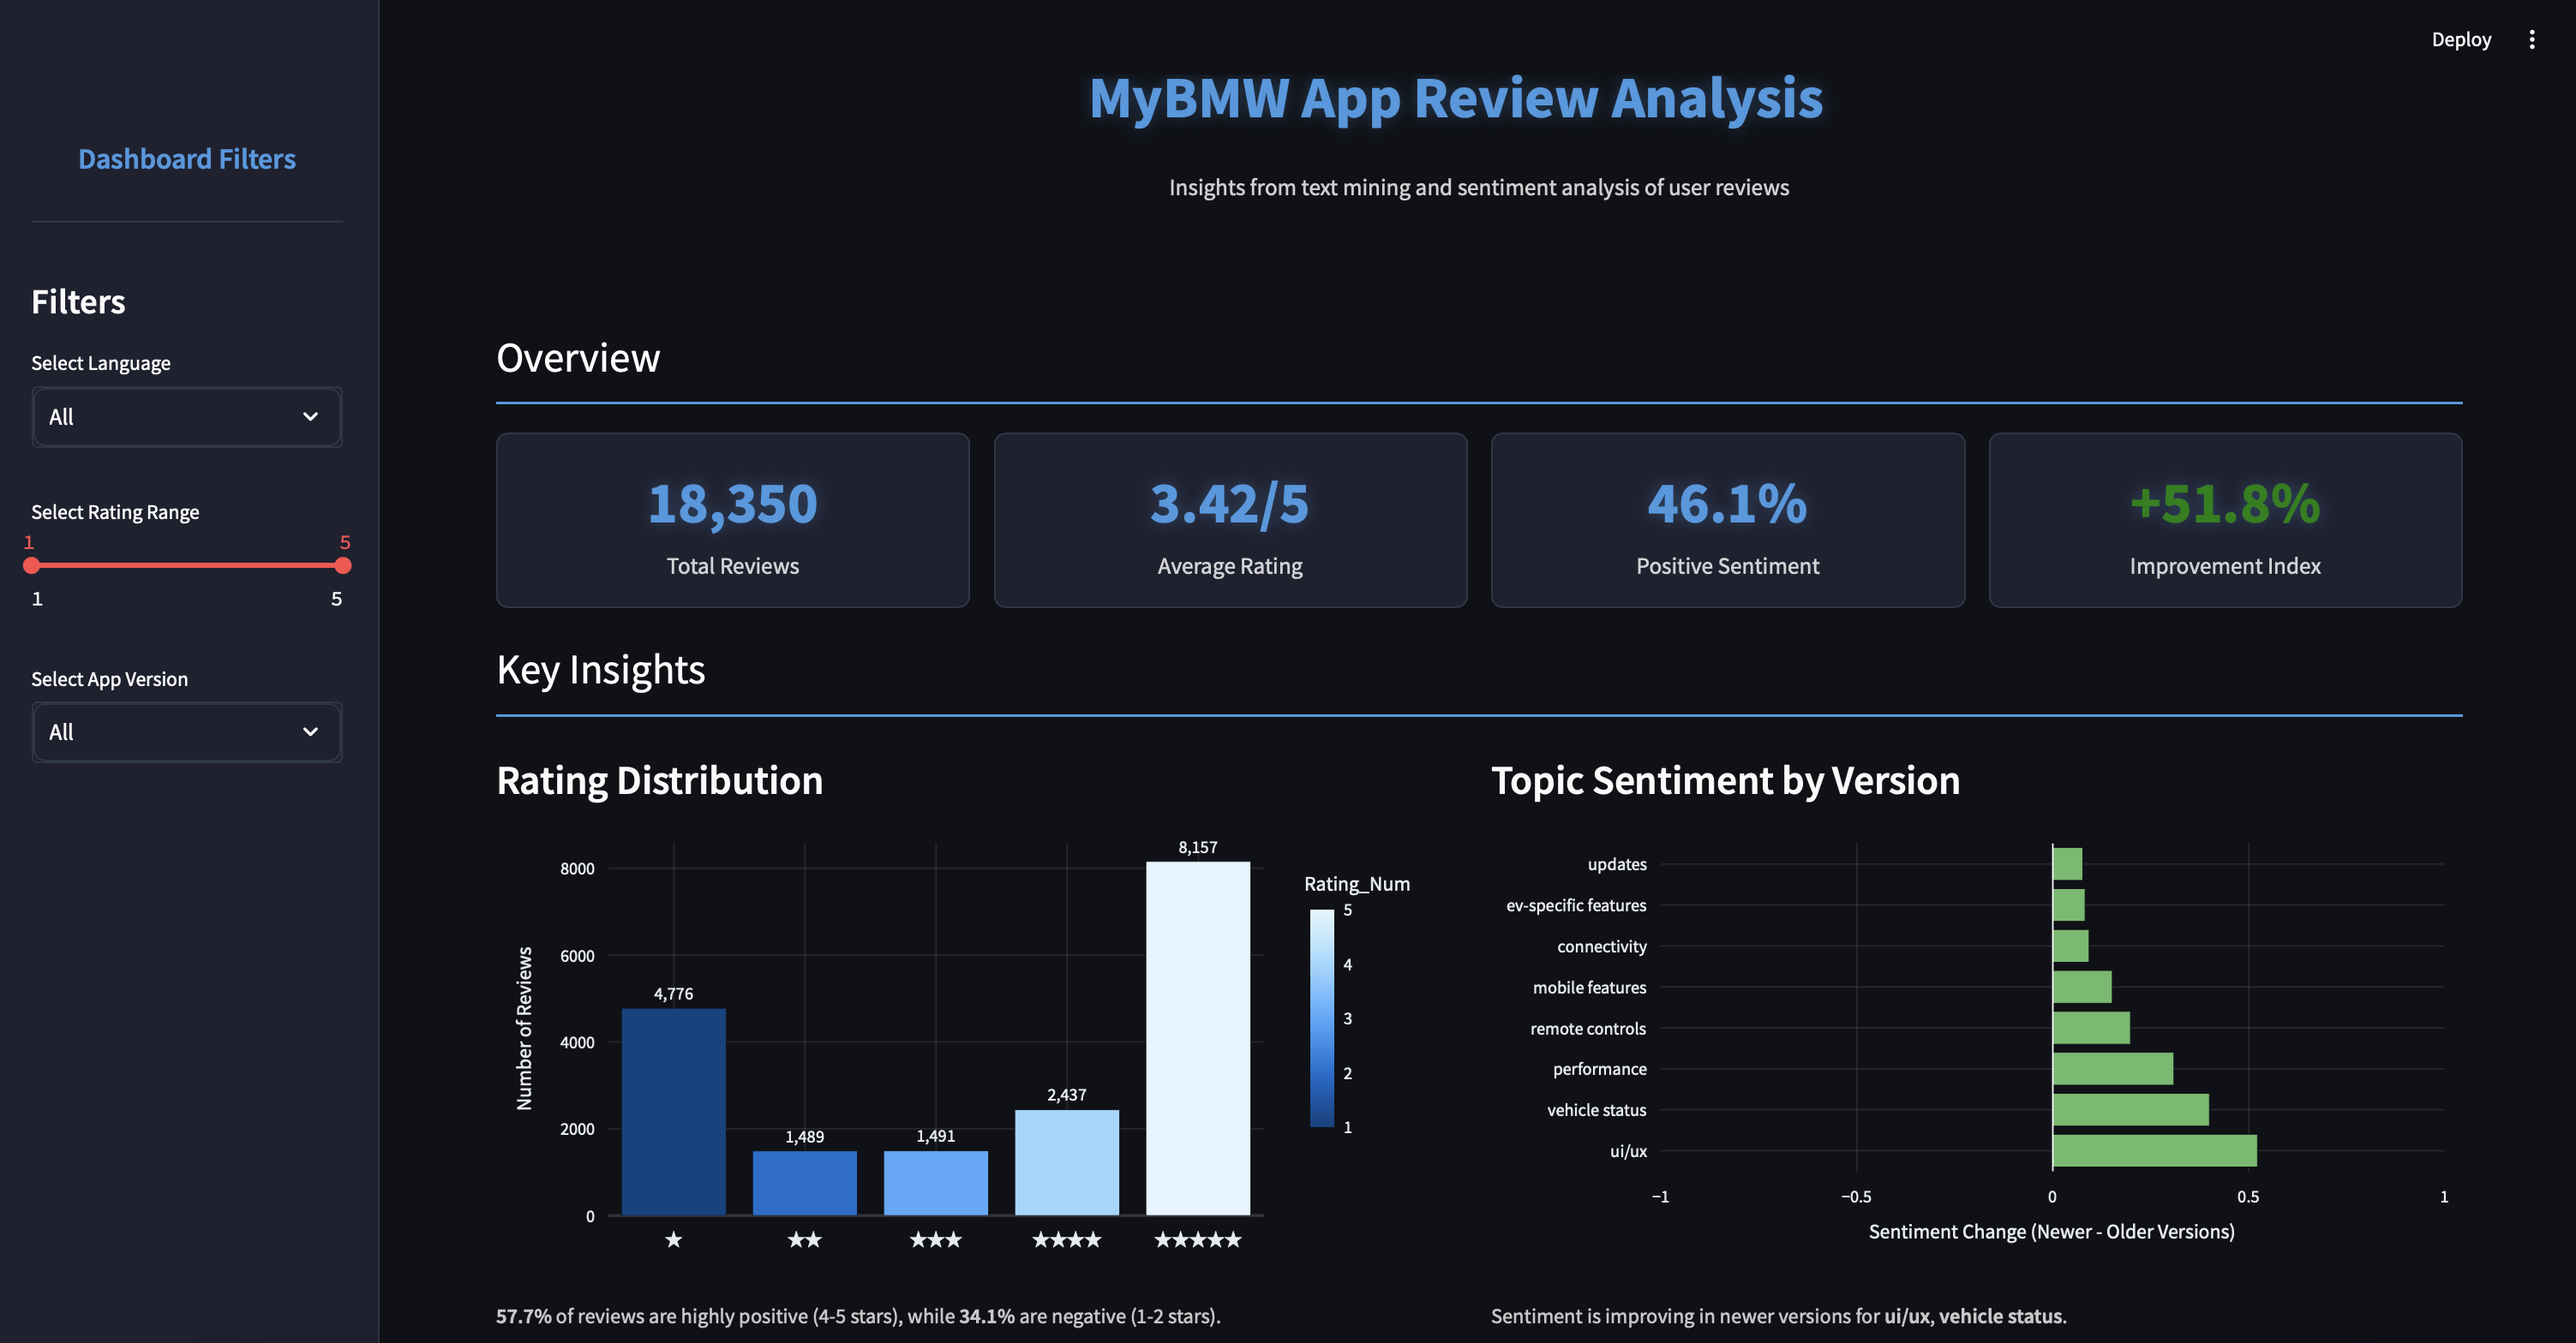
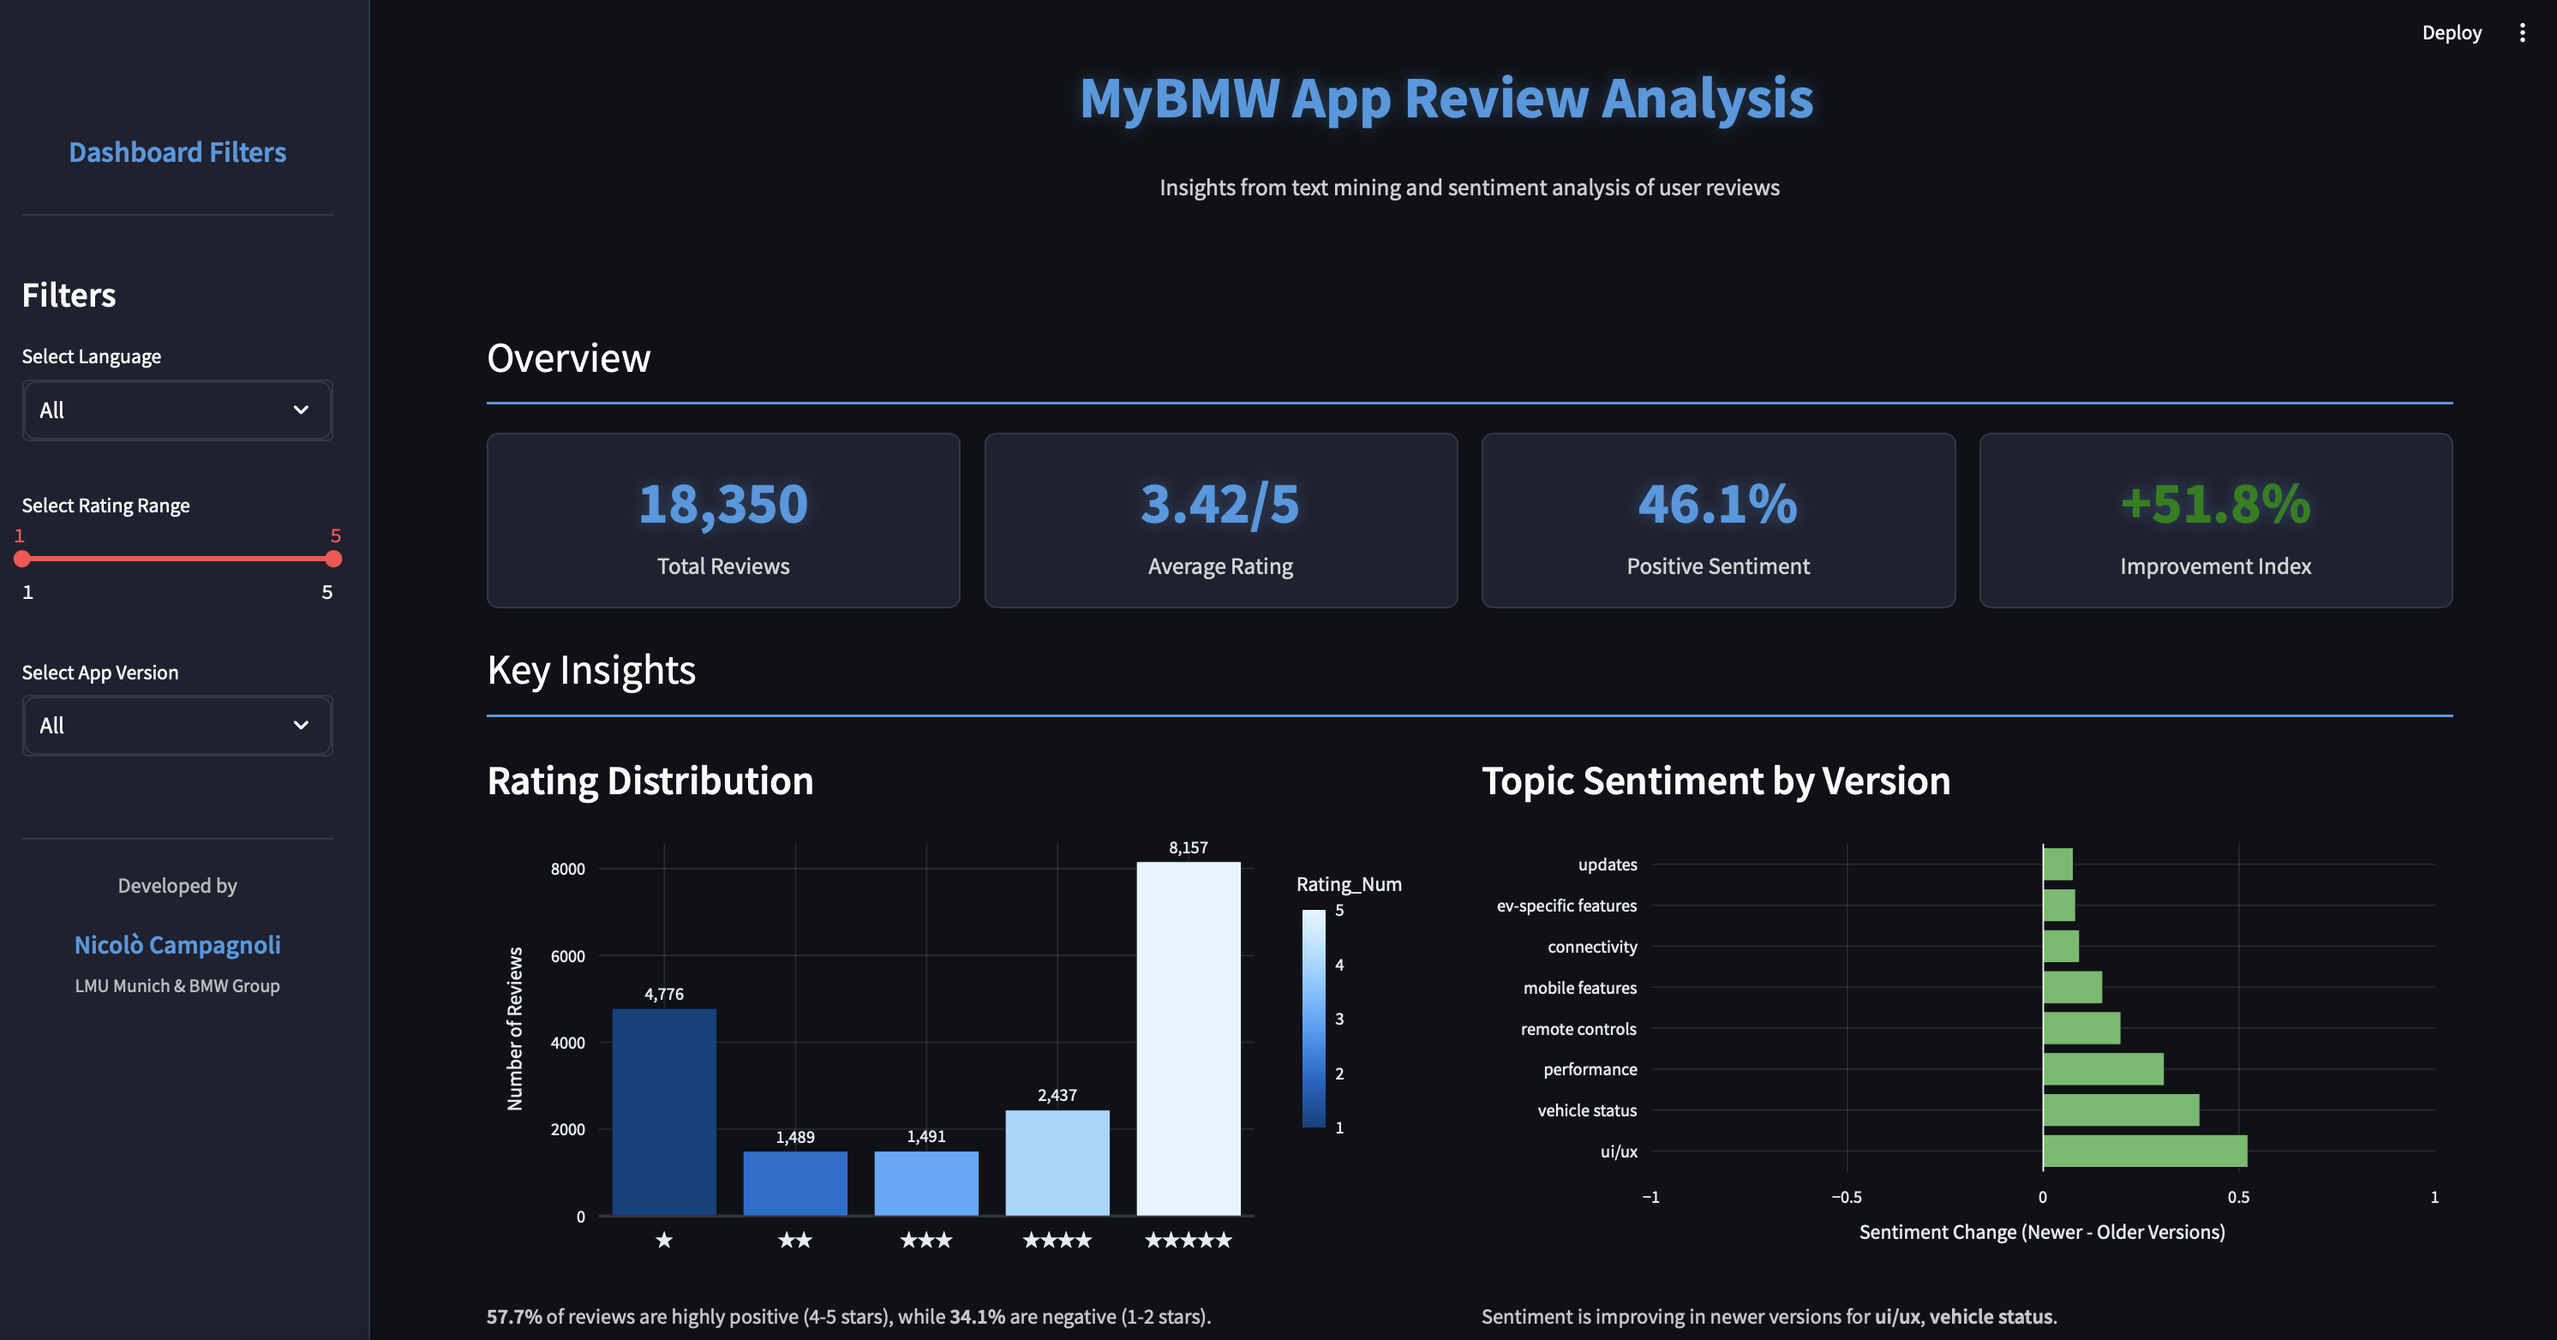
adj

diff --git a/dashboard.py b/dashboard.py
@@ -489,6 +489,15 @@ if 'appVersion' in df.columns:
     if selected_version != 'All':
         filtered_df = filtered_df[filtered_df['version_str'] == selected_version]
 
+# Add author information in the sidebar
+st.sidebar.markdown("""
+<div style="margin-top: 40px; padding-top: 20px; border-top: 1px solid rgba(255,255,255,0.1); text-align: center;">
+    <p style="opacity: 0.7; font-size: 0.9rem;">Developed by</p>
+    <p style="color: #4299E1; font-weight: 600; font-size: 1.1rem; margin: 5px 0;">Nicolò Campagnoli</p>
+    <p style="opacity: 0.7; font-size: 0.8rem;">LMU Munich & BMW Group</p>
+</div>
+""", unsafe_allow_html=True)
+
 # Overview metrics section
 # Removing the section divider above Overview
 # st.markdown('<div class="section-divider"></div>', unsafe_allow_html=True)
